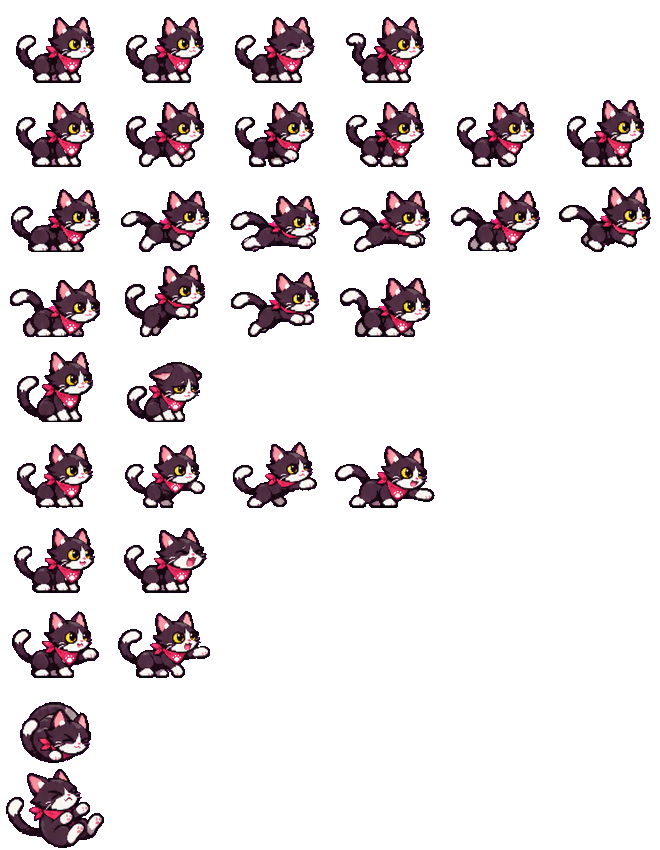
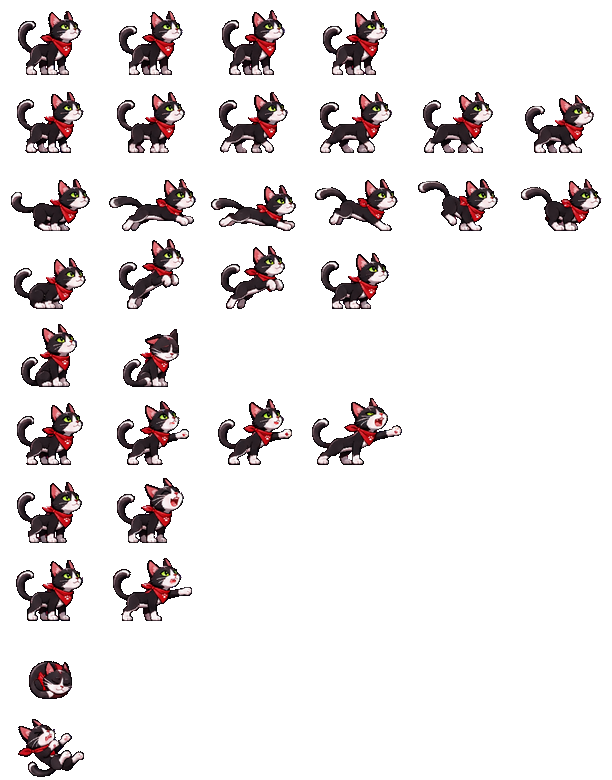
New Benji and Luna sprite sheets
- art/raw/benji-v2.png and luna-v2.png cut into the same rows as before (old raws kept)
- cut_raw.py --despill takes the magenta cast off the whites
- player-colour versions rebuilt

Claude-Session: https://claude.ai/code/session_01EFsKEVWJu3gjsgxEY5EAFj

Changed region(s): [[0.0, 0.0, 0.652, 1.0], [0.683, 0.1231, 0.9935, 0.3077], [0.3415, 0.4923, 0.652, 0.6154]]

diff --git a/tools/cut_raw.py b/tools/cut_raw.py
@@ -34,6 +34,7 @@ ap.add_argument('--pick', default='', help='choose frames by drawn row and posit
 ap.add_argument('--fill-holes', action='store_true', help='keep dark areas enclosed by the sprite (a face inside a hood, a visor) that are close to the background colour')
 ap.add_argument('--mirror', action='store_true', help='flip every frame left to right, for art drawn facing left (the game expects right)')
 ap.add_argument('--largest', action='store_true', help='keep only the biggest connected piece of each sprite: drops speed lines and other effects drawn beside it')
+ap.add_argument('--despill', type=float, default=0, help='0-1: take out a magenta cast that a magenta background left on the colours (whites drawn pinkish)')
 ap.add_argument('--preview', help='also write an image with the detected boxes drawn on it')
 a = ap.parse_args()
 # "meow:2+tool:2" is one drawn row holding two named rows, left to right.
@@ -80,6 +81,9 @@ for path in a.images:
                 pieces, k = ndi.label(part)
                 if k > 1: part = pieces == 1 + int(np.argmax(ndi.sum(part, pieces, range(1, k + 1))))
             rgba = np.asarray(im)[sl].copy(); rgba[..., 3] = np.where(part, 255, 0)
+            if a.despill:                      # magenta spill: red and blue both above green by the same amount
+                c = rgba[..., :3].astype(int); ex = np.clip(np.minimum(c[..., 0], c[..., 2]) - c[..., 1], 0, None) * a.despill
+                c[..., 0] -= ex.astype(int); c[..., 2] -= ex.astype(int); rgba[..., :3] = np.clip(c, 0, 255).astype(np.uint8)
             if a.largest:                      # the sprite may now be smaller than its box
                 box = Image.fromarray(rgba, 'RGBA').getbbox(); rgba = rgba[box[1]:box[3], box[0]:box[2]]
             sprites.append(Image.fromarray(rgba[:, ::-1] if a.mirror else rgba, 'RGBA'))
